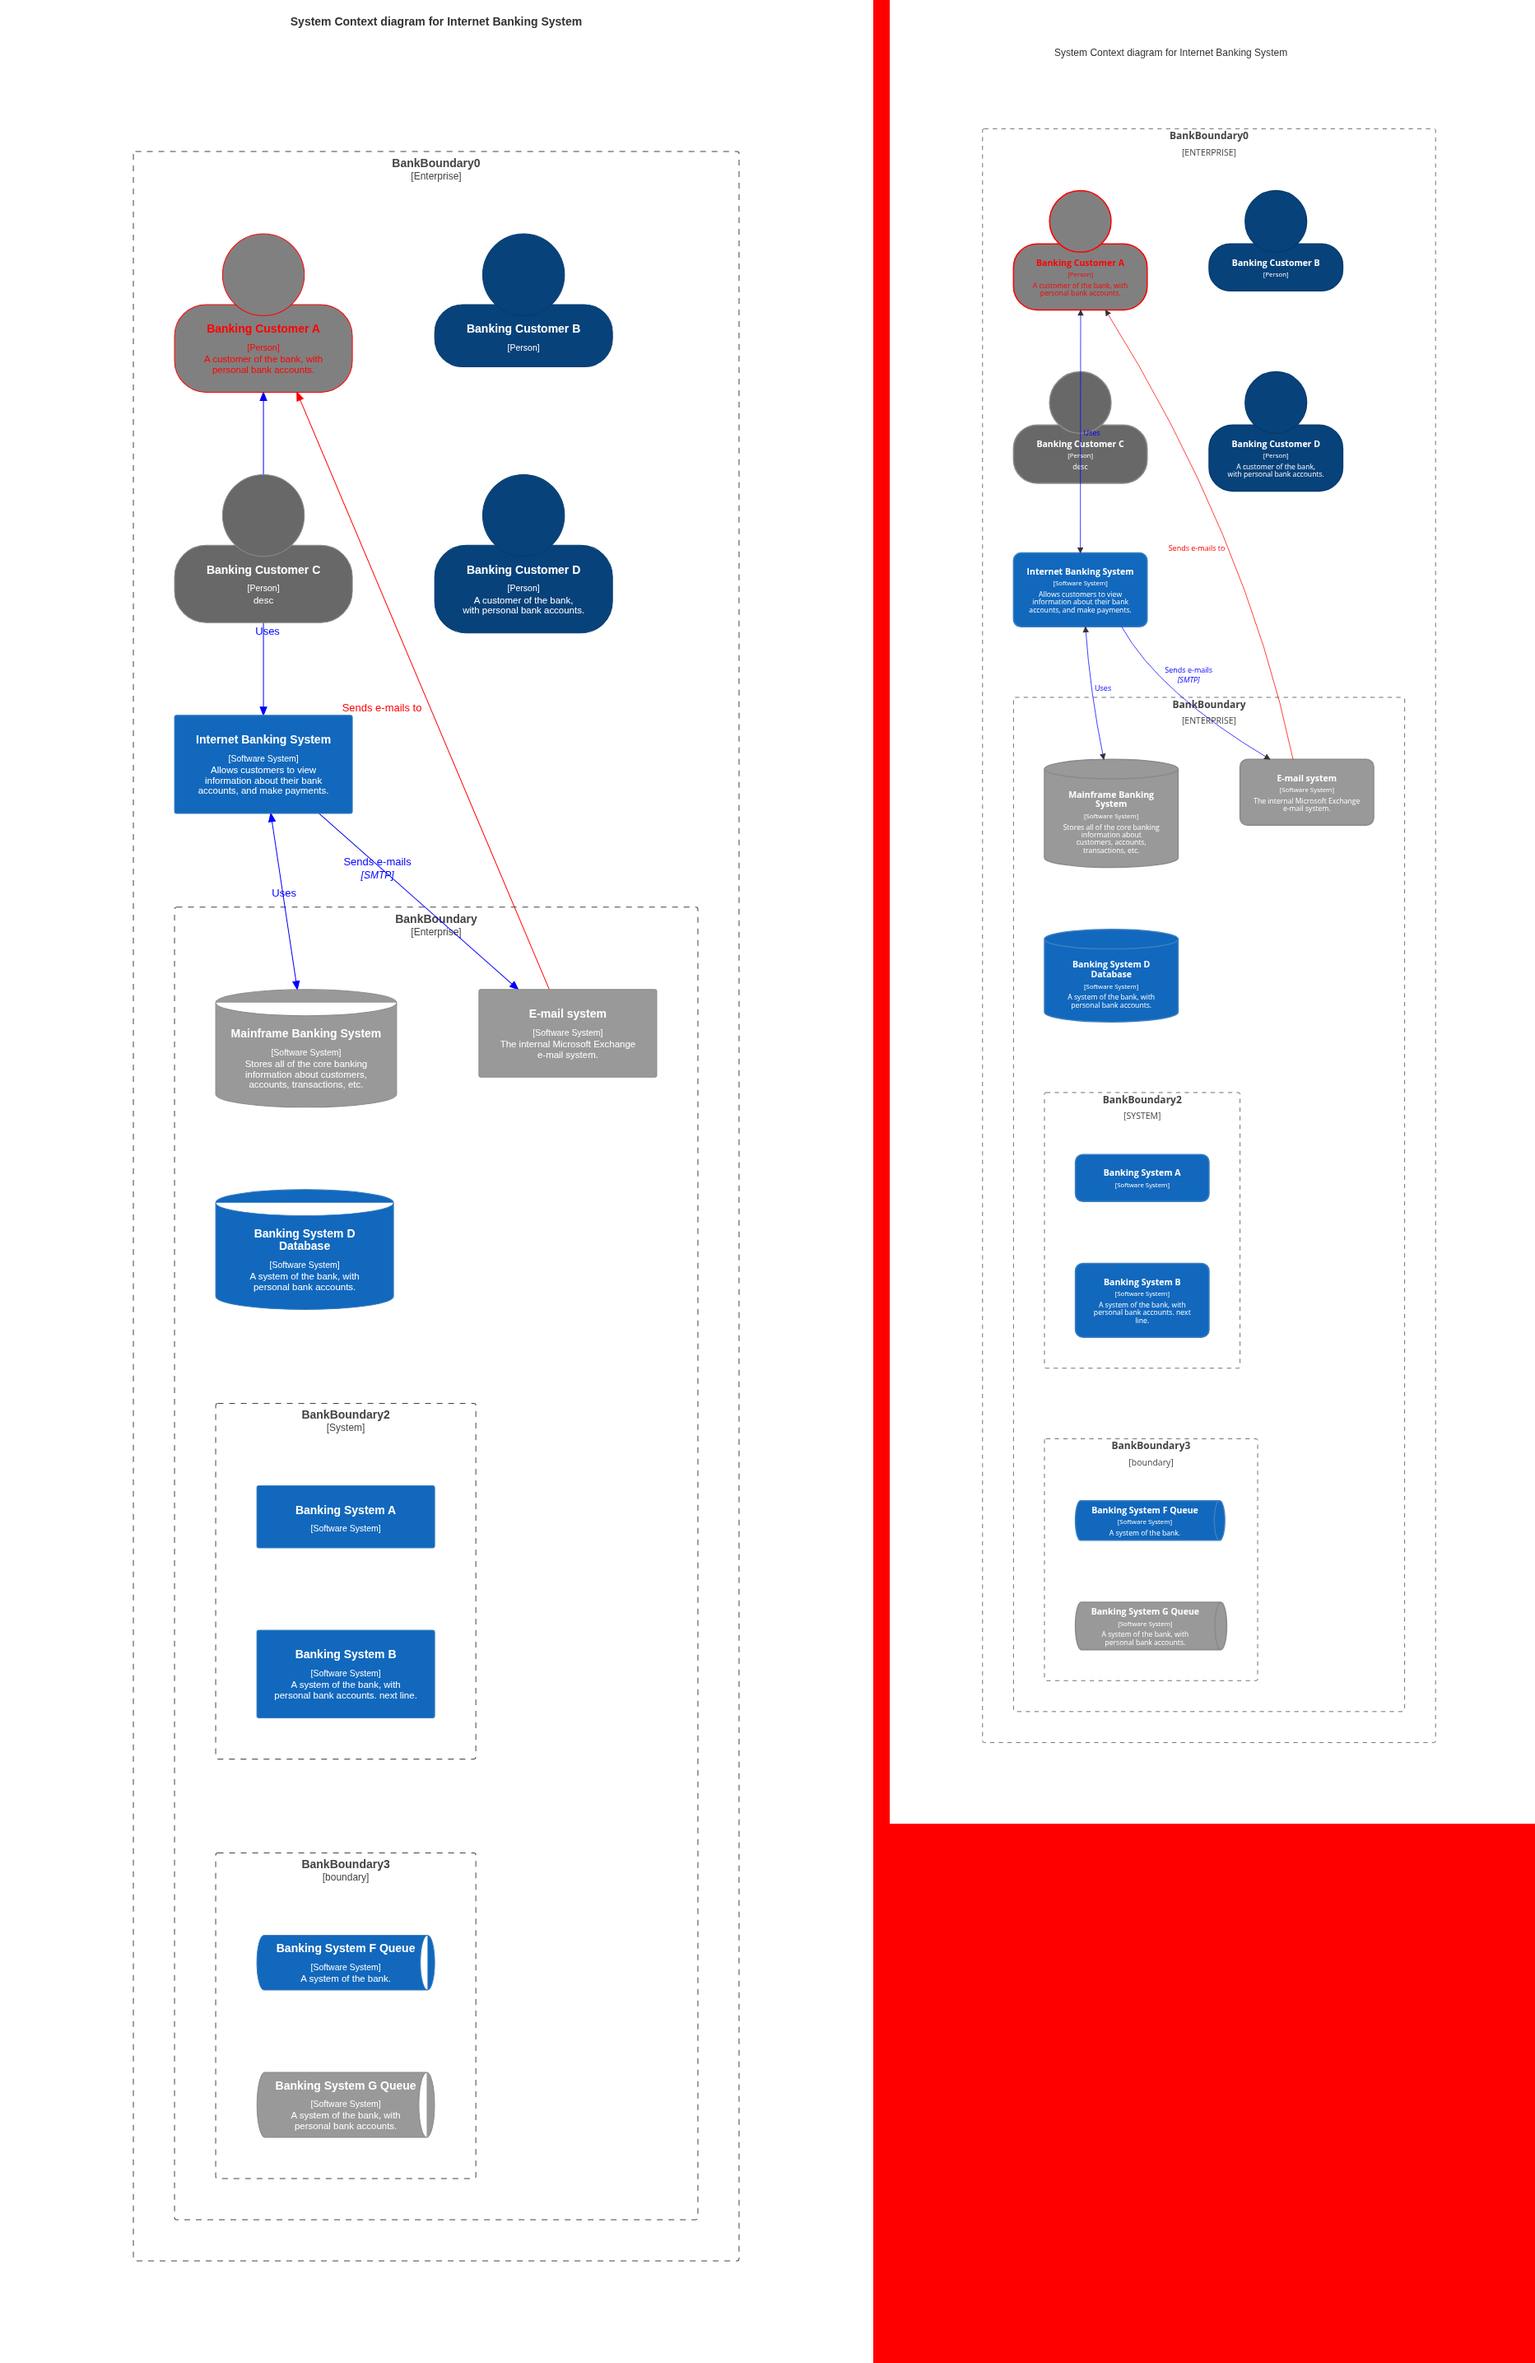
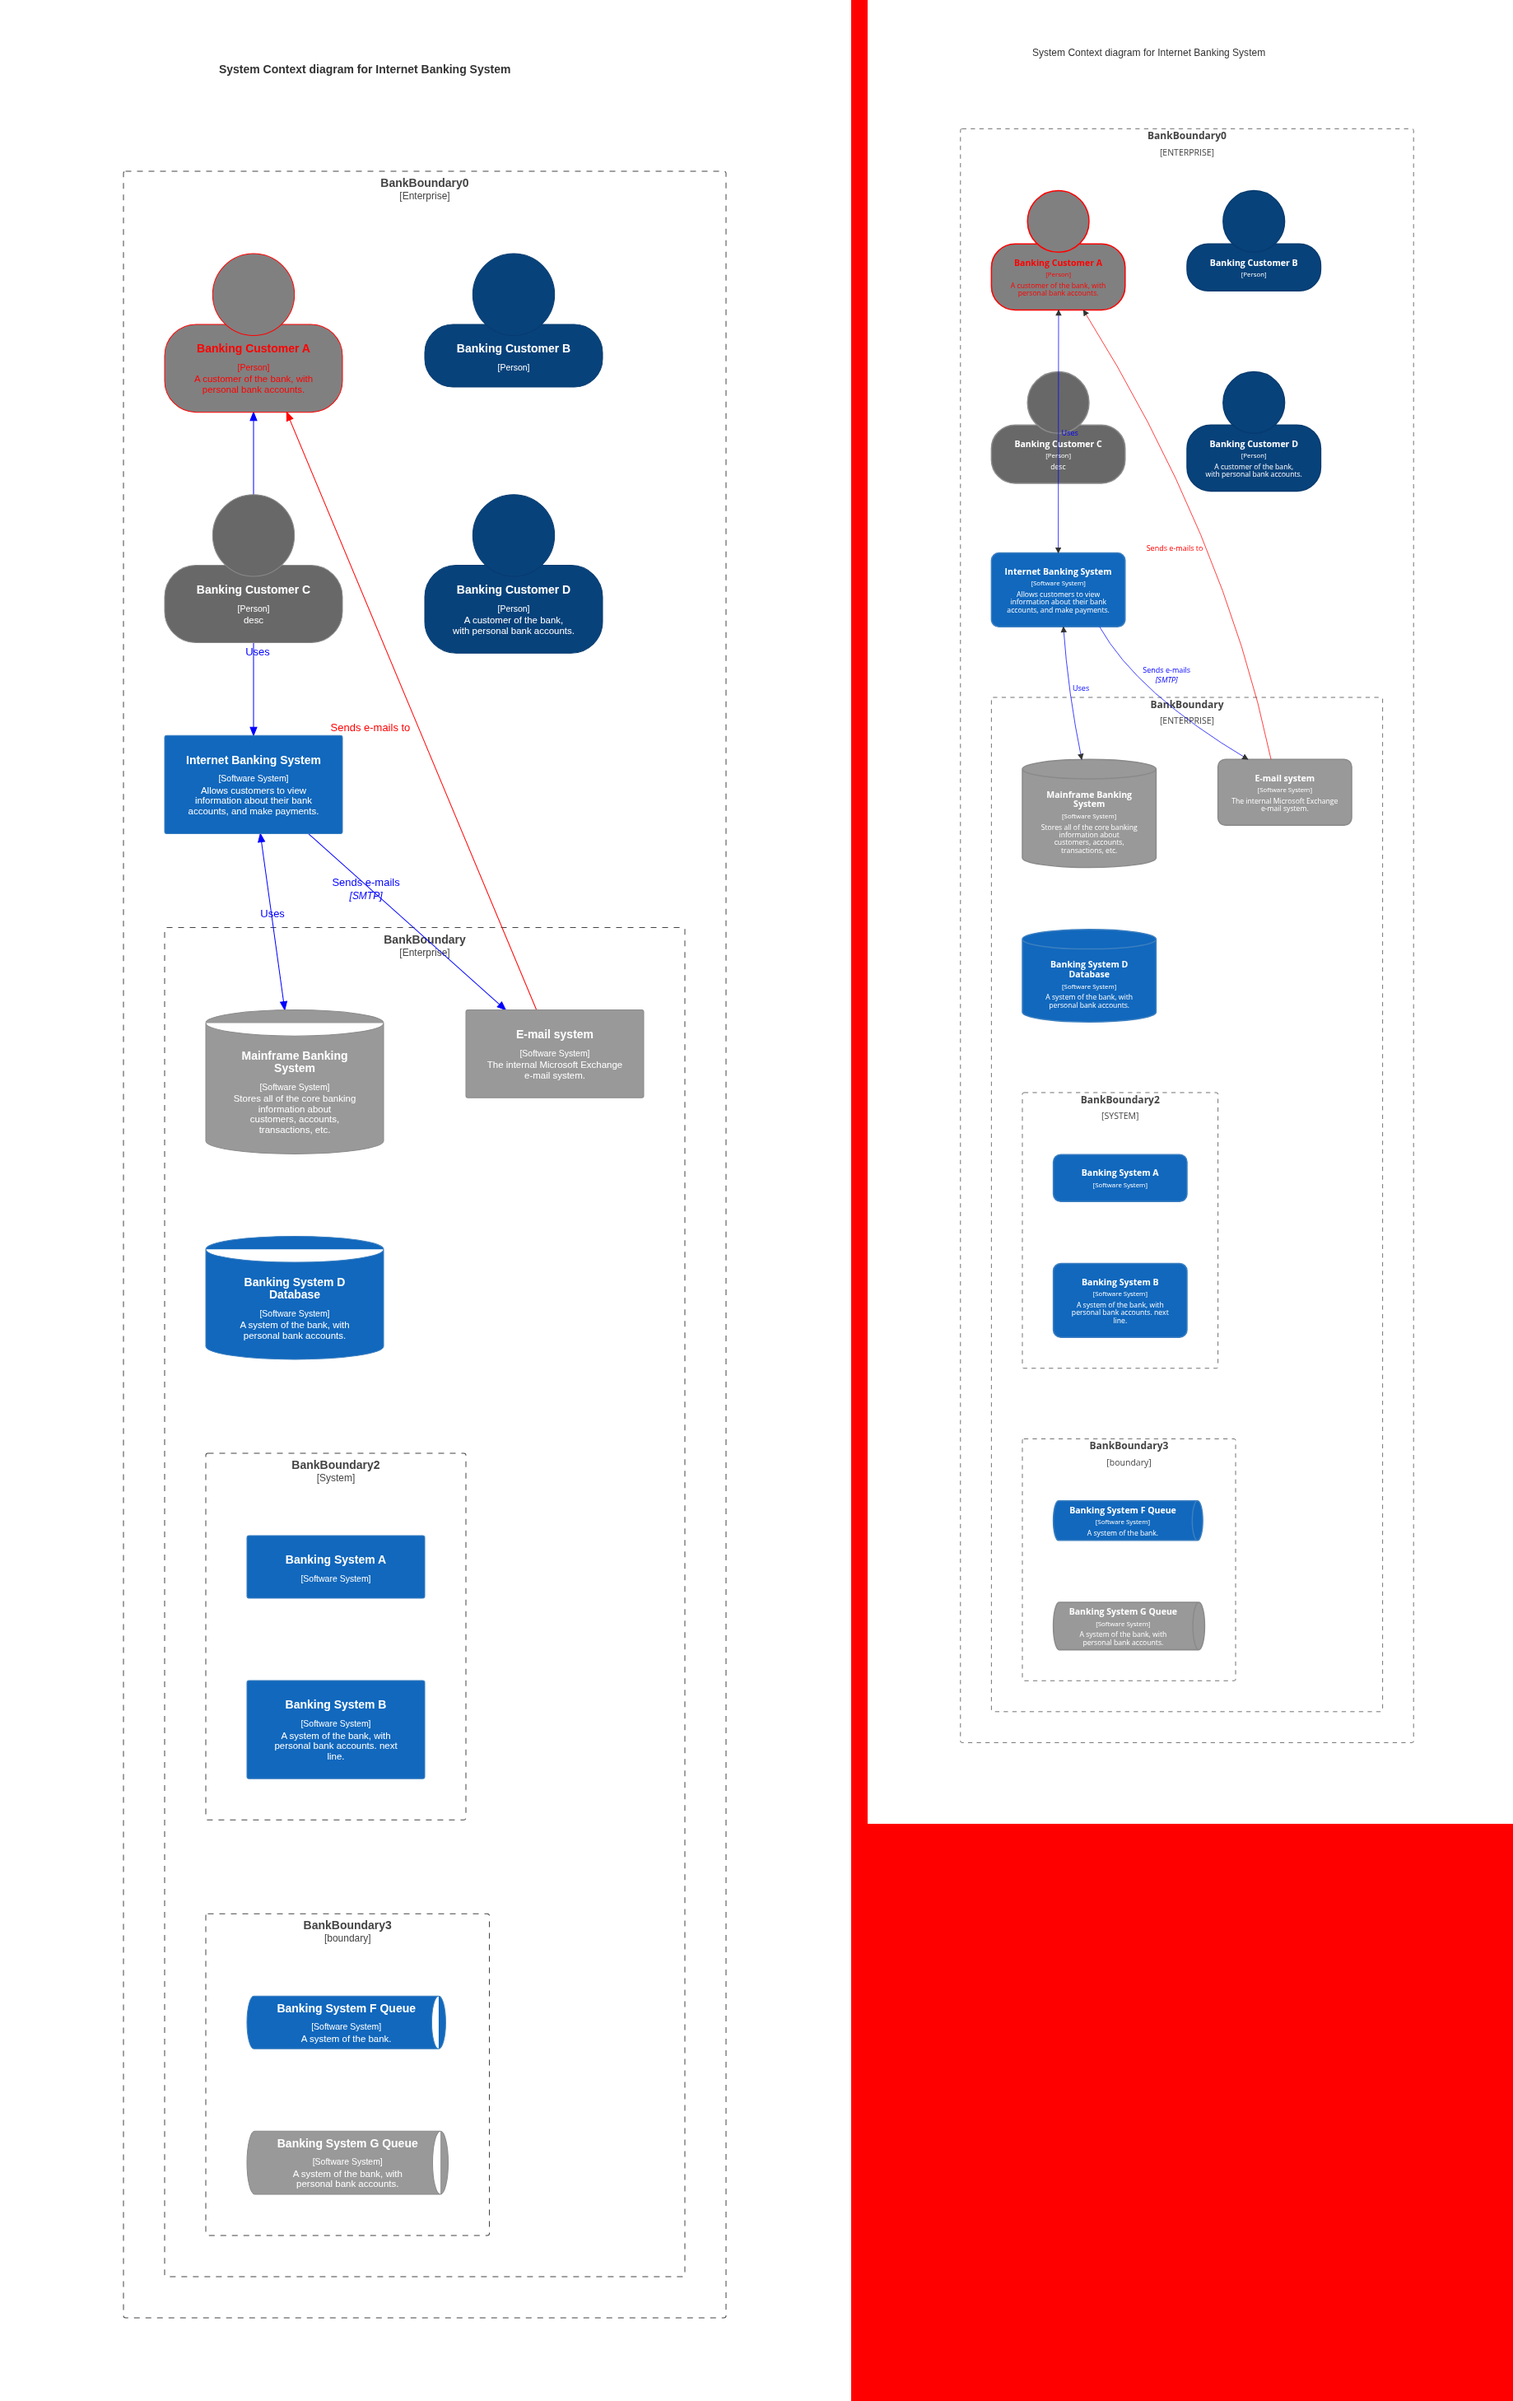
c4: mermaid geometry — real Open Sans wrap metrics, font-rounded section heights, cylinder/queue sizing, viewBox/title per c4Renderer

diff --git a/src/d_c4.c b/src/d_c4.c
@@ -195,8 +195,10 @@ constexpr double C4_TF = 10.5;   /* [type] 0.75em */
 constexpr double C4_DF = 11.48;  /* description 0.82em */
 constexpr double C4_PAD = 20;    /* conf.c4ShapePadding */
 constexpr double C4_GAP = 3;     /* c4LabelHelper SECTION_GAP */
-/* svg text bbox height of an n-line block: rows 1.1em apart plus the glyph box of one row */
-static double sec_h(unsigned n, double f) { return (n ? n - 1 : 0) * 1.1 * f + 1.33 * f; }
+/* svg text bbox height of an n-line block: rows 1.1em apart plus the glyph box of one row. Chromium's
+ * glyph box is the rounded ascent plus the rounded descent of the font ("Open Sans": 1.069em / 0.293em),
+ * measured: 14px bold 19, 10.5px 14, 11.48px 15 */
+static double sec_h(unsigned n, double f) { return (n ? n - 1 : 0) * 1.1 * f + round(1.069 * f) + round(0.293 * f); }
 /* mermaid cylinder end radius (ry = rx / (2.5 + w/50)) and person head radius */
 static double cyl_r(double w) { return w / 2 / (2.5 + w / 50); }
 static double head_r(double w) { return fmin(fmax(w * 0.23, 16), 56); }
@@ -336,26 +338,32 @@ DIAG_FN(c4_render) {
     if (!dw || !dn || !lab) return CMM_ERR_NOMEM;
     for (size_t v = 0; v < g.nn; v++) {
         CInfo *c = &ci.v[v];
-        double w = fmax(216, (double)(strlen(C4_TY[c->kind]) + c->techn.n + 4) * C4_TF * 0.55 + 2 * C4_PAD);
-        dn[v] = dg_wrap(a, g.nlabel[v], C4_NF, w - 2 * C4_PAD);
-        dw[v] = c->descr.n ? dg_wrap(a, c->descr, C4_DF, w - 2 * C4_PAD) : (Str){};
+        double w = 216; /* mermaid: node.width = conf.width; the [type] line is not used for sizing */
+        /* cylinder: node.width loses one padding before c4LabelHelper subtracts two */
+        double ww = w - 2 * C4_PAD - (c->form == F_DB ? C4_PAD : c->form == F_QUEUE ? C4_PAD / 2 : 0);
+        dn[v] = dg_wrapf(a, g.nlabel[v], C4_NF, ww, text_width_os);
+        dw[v] = c->descr.n ? dg_wrapf(a, c->descr, C4_DF, ww, text_width_os) : (Str){};
         if (!dn[v].n && g.nlabel[v].n) return CMM_ERR_NOMEM;
         double tw;
         unsigned nl = 0;
-        label_measure(dn[v], C4_NF, &tw, &nl);
-        w = fmax(w, tw * 1.05 + 2 * C4_PAD);
+        label_measure_f(dn[v], C4_NF, text_width_os, &tw, &nl);
+        w = fmax(w, tw + w - ww);
         double h = sec_h(nl, C4_NF) + C4_GAP + sec_h(1, C4_TF);
         if (dw[v].n) {
             double dwid;
             unsigned dl;
-            label_measure(dw[v], C4_DF, &dwid, &dl);
+            label_measure_f(dw[v], C4_DF, text_width_os, &dwid, &dl);
             h += C4_GAP + sec_h(dl, C4_DF);
-            w = fmax(w, dwid + 2 * C4_PAD);
+            w = fmax(w, dwid + w - ww);
         }
         lab[v] = h;
         h += 2 * C4_PAD;
-        if (c->form == F_QUEUE) h = lab[v] + 12.63;
-        else if (c->form == F_DB) h += 1.5 * cyl_r(w);
+        if (c->form == F_QUEUE) { /* mermaid tiltedCylinder: label + padding/2; body width + rx, and the
+                                      * caps (rx each) count towards the layout width */
+            h = lab[v] + C4_PAD / 2;
+            w += 3 * (h / 2 / (2.5 + h / 50));
+        }
+        else if (c->form == F_DB) h = lab[v] + C4_PAD + 3 * cyl_r(w); /* mermaid cylinder: label + padding + ry, plus both caps */
         else if (c->kind == K_PERSON) h += 2 * head_r(w) - 0.27 * head_r(w);
         dg_size(&g, (int32_t)v, w, h);
     }
@@ -395,8 +403,8 @@ DIAG_FN(c4_render) {
     bnd_set(&screen, C4_DMX, C4_DMY);
     L.maxx = C4_DMX, L.maxy = C4_DMY;
     lay(&L, &screen, C4_GLOBAL, 0);
-    BBox bb = {0, 0, L.maxx + C4_DMX, L.maxy + C4_DMY};
-    if (ttl.n) bb.y0 -= 34, bb.x1 = fmax(bb.x1, text_width(ttl, 18) + 20);
+    /* mermaid: viewBox = (startx - marginX, -(marginY + 60 if titled), box + 2 margins); screen start (50, 10) */
+    BBox bb = {0, -C4_DMY - (ttl.n ? 60 : 0), L.maxx + C4_DMX, L.maxy};
     /* resolve style overrides */
     const EStyle **nst = ANEW(a, const EStyle *, g.nn);
     const RStyle **rst = ANEW(a, const RStyle *, g.ne + 1);
@@ -449,11 +457,12 @@ DIAG_FN(c4_render) {
             lbw[e] = lw, lbh[e] = lh;
             g.elx[e] = bx + (rst[e] ? rst[e]->ox : 0), g.ely[e] = by + (rst[e] ? rst[e]->oy : 0);
         }
-        bb_add(&bb, g.elx[e] - lw / 2, g.ely[e] - 20, g.elx[e] + lw / 2, g.ely[e] + 20);
+        (void)lw; /* mermaid does not grow the viewBox for relation labels */
     }
     if (!buf_reserve(out, 2048 + g.nn * 900 + g.ne * 500 + g.ns * 300)) return CMM_ERR_NOMEM;
-    DG_HEAD(out, bb, 12, "c4", CSS);
-    if (ttl.n) dg_text(out, ttl, 18, (bb.x0 + bb.x1) / 2, bb.y0 + 14, "middle", "cn");
+    DG_HEAD(out, bb, 0, "c4", CSS);
+    /* mermaid: plain 16px text, start-anchored at (boxWidth/2 - 4*marginX, starty + marginY), baseline */
+    if (ttl.n) dg_text(out, ttl, 16, (L.maxx - C4_DMX) / 2 - 4 * C4_DMX, 20 - 0.35 * 16, "start", "cn");
     for (size_t s = 0; s < g.ns; s++) {
         dg_rect(out, g.sx[s], g.sy[s], g.sw[s], g.sh[s], 2.5, "cb");
         Str t = g.stitle[s];
@@ -531,7 +540,7 @@ DIAG_FN(c4_render) {
         }
         unsigned nl;
         double tw;
-        label_measure(dn[v], C4_NF, &tw, &nl);
+        label_measure_f(dn[v], C4_NF, text_width_os, &tw, &nl);
         double y = lt;
         dg_text_lh(out, dn[v], 1.1 * C4_NF, cx, y + sec_h(nl, C4_NF) / 2, "middle", "cn");
         y += sec_h(nl, C4_NF) + C4_GAP;
@@ -545,7 +554,7 @@ DIAG_FN(c4_render) {
         if (dw[v].n) {
             double dwid;
             unsigned dl;
-            label_measure(dw[v], C4_DF, &dwid, &dl);
+            label_measure_f(dw[v], C4_DF, text_width_os, &dwid, &dl);
             dg_text_lh(out, dw[v], 1.1 * C4_DF, cx, y + sec_h(dl, C4_DF) / 2, "middle", "cd");
         }
         buf_lit(out, "</g>");

diff --git a/src/dgraph.c b/src/dgraph.c
@@ -344,13 +344,15 @@ const char *dg_palette(size_t i) {
                                     "#ffb8ff", "#b8ffff", "#ffe0e0", "#ff85ff", "#85ffff", "#ffb8b8"};
     return P[i % countof(P)];
 }
-Str dg_wrap(Arena *a, Str raw, double fs, double maxw) {
+Str dg_wrap(Arena *a, Str raw, double fs, double maxw) { return dg_wrapf(a, raw, fs, maxw, text_width); }
+
+Str dg_wrapf(Arena *a, Str raw, double fs, double maxw, double (*meas)(Str, double)) {
     bool ok = true;
     Str s = label_normalize(a, raw, &ok);
     if (!ok) return (Str){};
     double w;
     unsigned nl;
-    label_measure(s, fs, &w, &nl);
+    label_measure_f(s, fs, meas, &w, &nl);
     if (w <= maxw) return s;
     char *o = arena_alloc(a, s.n + 1, 1);
     if (!o) return (Str){};
@@ -359,13 +361,13 @@ Str dg_wrap(Arena *a, Str raw, double fs, double maxw) {
     for (size_t i = 0; i < s.n; i++) {
         if (o[i] == '\n') { ls = i + 1, lastsp = SIZE_MAX; continue; }
         if (o[i] == ' ') {
-            if (lastsp != SIZE_MAX && text_width((Str){.p = o + ls, .n = i - ls}, fs) > maxw) {
+            if (lastsp != SIZE_MAX && meas((Str){.p = o + ls, .n = i - ls}, fs) > maxw) {
                 o[lastsp] = '\n', ls = lastsp + 1;
             }
             lastsp = i;
         }
     }
-    if (lastsp != SIZE_MAX && lastsp >= ls && text_width((Str){.p = o + ls, .n = s.n - ls}, fs) > maxw) o[lastsp] = '\n';
+    if (lastsp != SIZE_MAX && lastsp >= ls && meas((Str){.p = o + ls, .n = s.n - ls}, fs) > maxw) o[lastsp] = '\n';
     return (Str){.p = o, .n = s.n};
 }
 

diff --git a/src/text.c b/src/text.c
@@ -147,3 +147,30 @@ void label_measure(Str s, double fs, double *w, unsigned *lines) {
     *w = mw;
     *lines = cnt;
 }
+
+/* "Open Sans" (C4 labels) ASCII advances in 1/1000 em, measured in Chromium; kerning ignored.
+ * Non-ASCII falls back to the default face's advance. */
+static constexpr unsigned short OS_ADV[95] = {260,264,398,646,572,827,729,219,295,295,551,572,259,322,263,367,572,572,572,572,572,572,572,572,572,572,263,263,572,572,572,432,896,632,646,630,726,556,516,727,737,279,269,612,522,899,753,778,602,778,617,548,551,729,596,923,578,559,572,327,367,327,572,438,277,556,612,479,612,562,336,543,613,252,252,525,252,926,613,602,612,612,409,477,356,613,500,775,523,501,469,375,549,375,572};
+double text_width_os(Str s, double fs) {
+    double acc = 0;
+    size_t i = 0;
+    while (i < s.n) {
+        unsigned char c = (unsigned char)s.p[i];
+        if (c >= 32 && c < 127) { acc += OS_ADV[c - 32] * fs / 1000.0; i++; continue; }
+        size_t j = i + 1;
+        while (j < s.n && ((unsigned char)s.p[j] & 0xC0) == 0x80) j++;
+        acc += text_width((Str){.p = s.p + i, .n = j - i}, fs);
+        i = j;
+    }
+    return acc;
+}
+
+void label_measure_f(Str s, double fs, double (*meas)(Str, double), double *w, unsigned *lines) {
+    size_t pos = 0;
+    Str ln;
+    double mw = 0;
+    unsigned k = 0;
+    if (s.n == 0) { *w = 0, *lines = 0; return; }
+    while (label_next_line(s, &pos, &ln)) mw = fmax(mw, meas(ln, fs)), k++;
+    *w = mw, *lines = k;
+}

diff --git a/src/text.h b/src/text.h
@@ -9,6 +9,8 @@
 [[nodiscard]] Str label_normalize(Arena *a, Str raw, bool *ok);
 /* Measure a normalised label: max line width and line count. */
 void label_measure(Str s, double fs, double *w, unsigned *lines);
+[[nodiscard]] double text_width_os(Str s, double fs);
+void label_measure_f(Str s, double fs, double (*meas)(Str, double), double *w, unsigned *lines);
 /* iterate lines: returns next line, advances *pos; false at end */
 bool label_next_line(Str s, size_t *pos, Str *line);
 #endif

diff --git a/src/dgraph.h b/src/dgraph.h
@@ -75,3 +75,4 @@ void dg_rect_fill(Buf *b, double x, double y, double w, double h, double rx, con
 [[nodiscard]] const char *dg_palette(size_t i);
 /* normalise (<br>, quotes) then greedily word-wrap to maxw; nullptr-safe: returns {} on OOM */
 [[nodiscard]] Str dg_wrap(Arena *a, Str raw, double fs, double maxw);
+[[nodiscard]] Str dg_wrapf(Arena *a, Str raw, double fs, double maxw, double (*meas)(Str, double));
